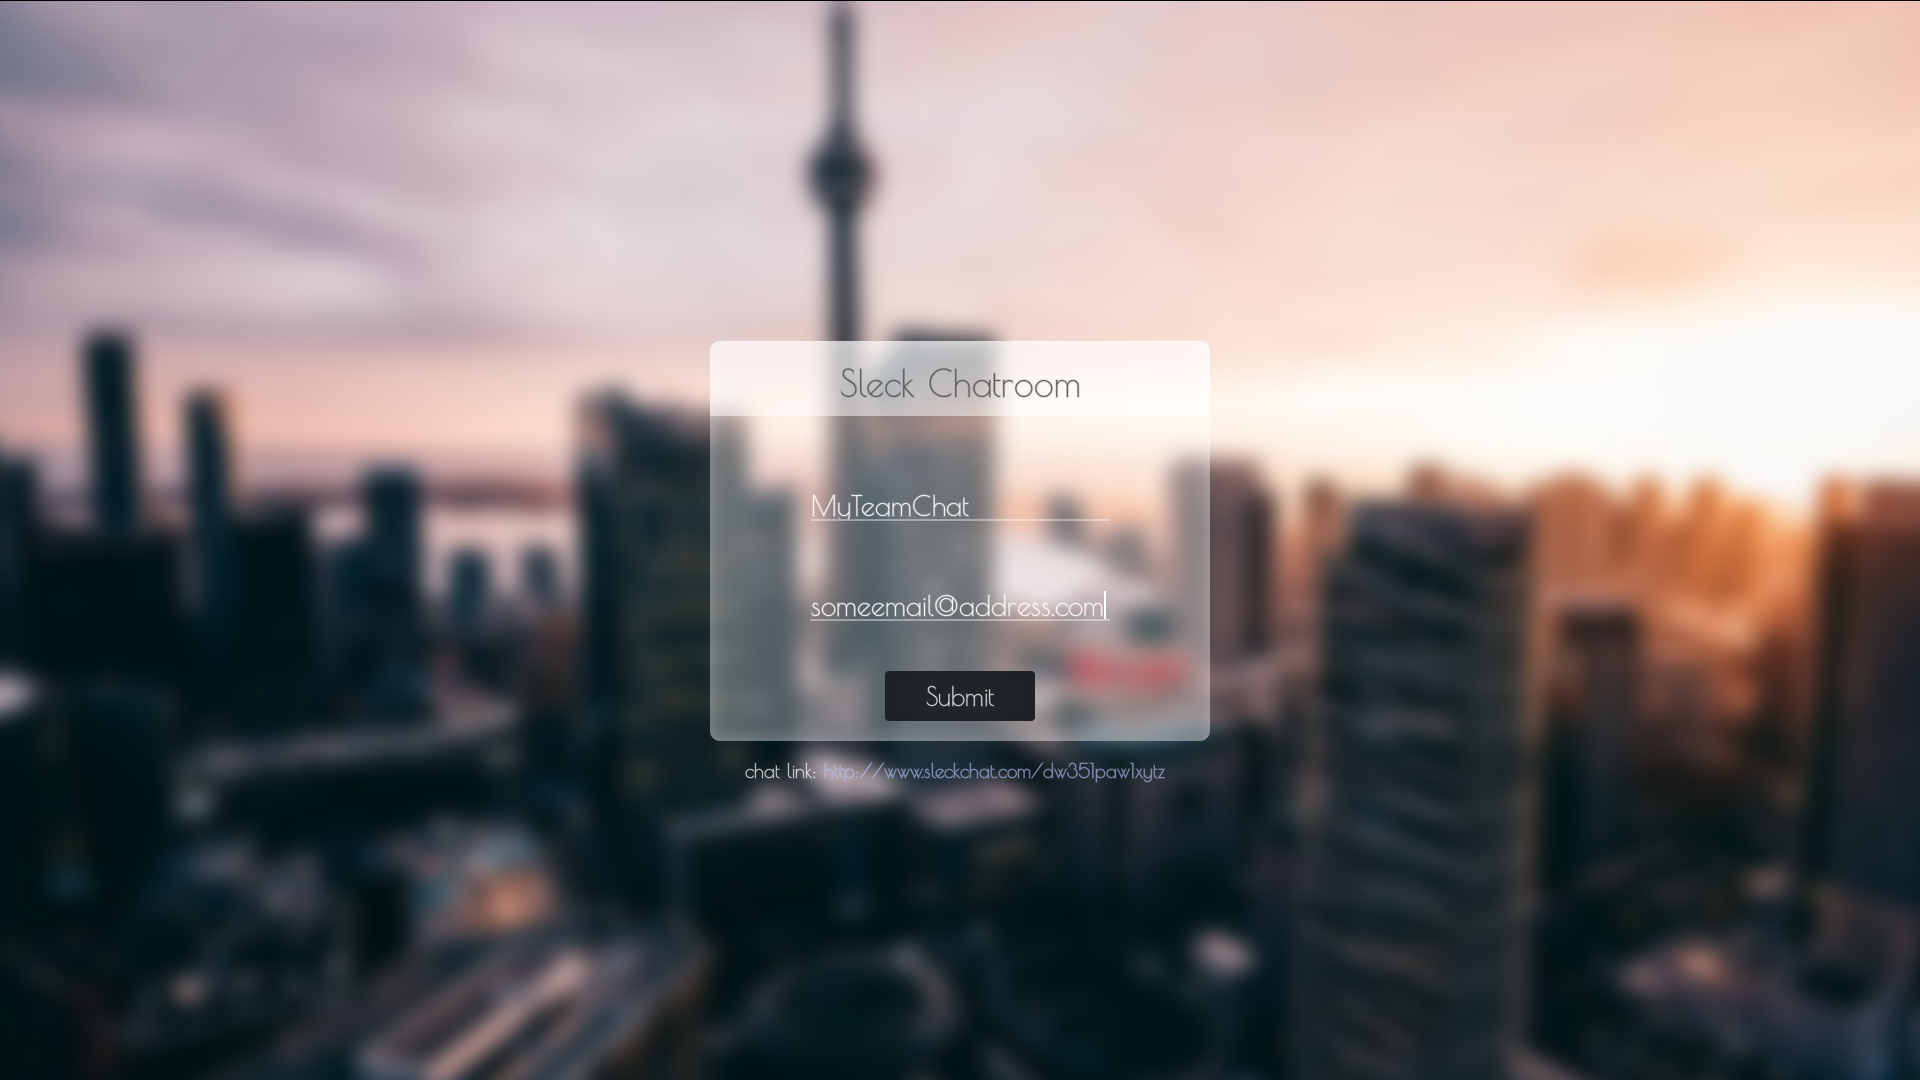
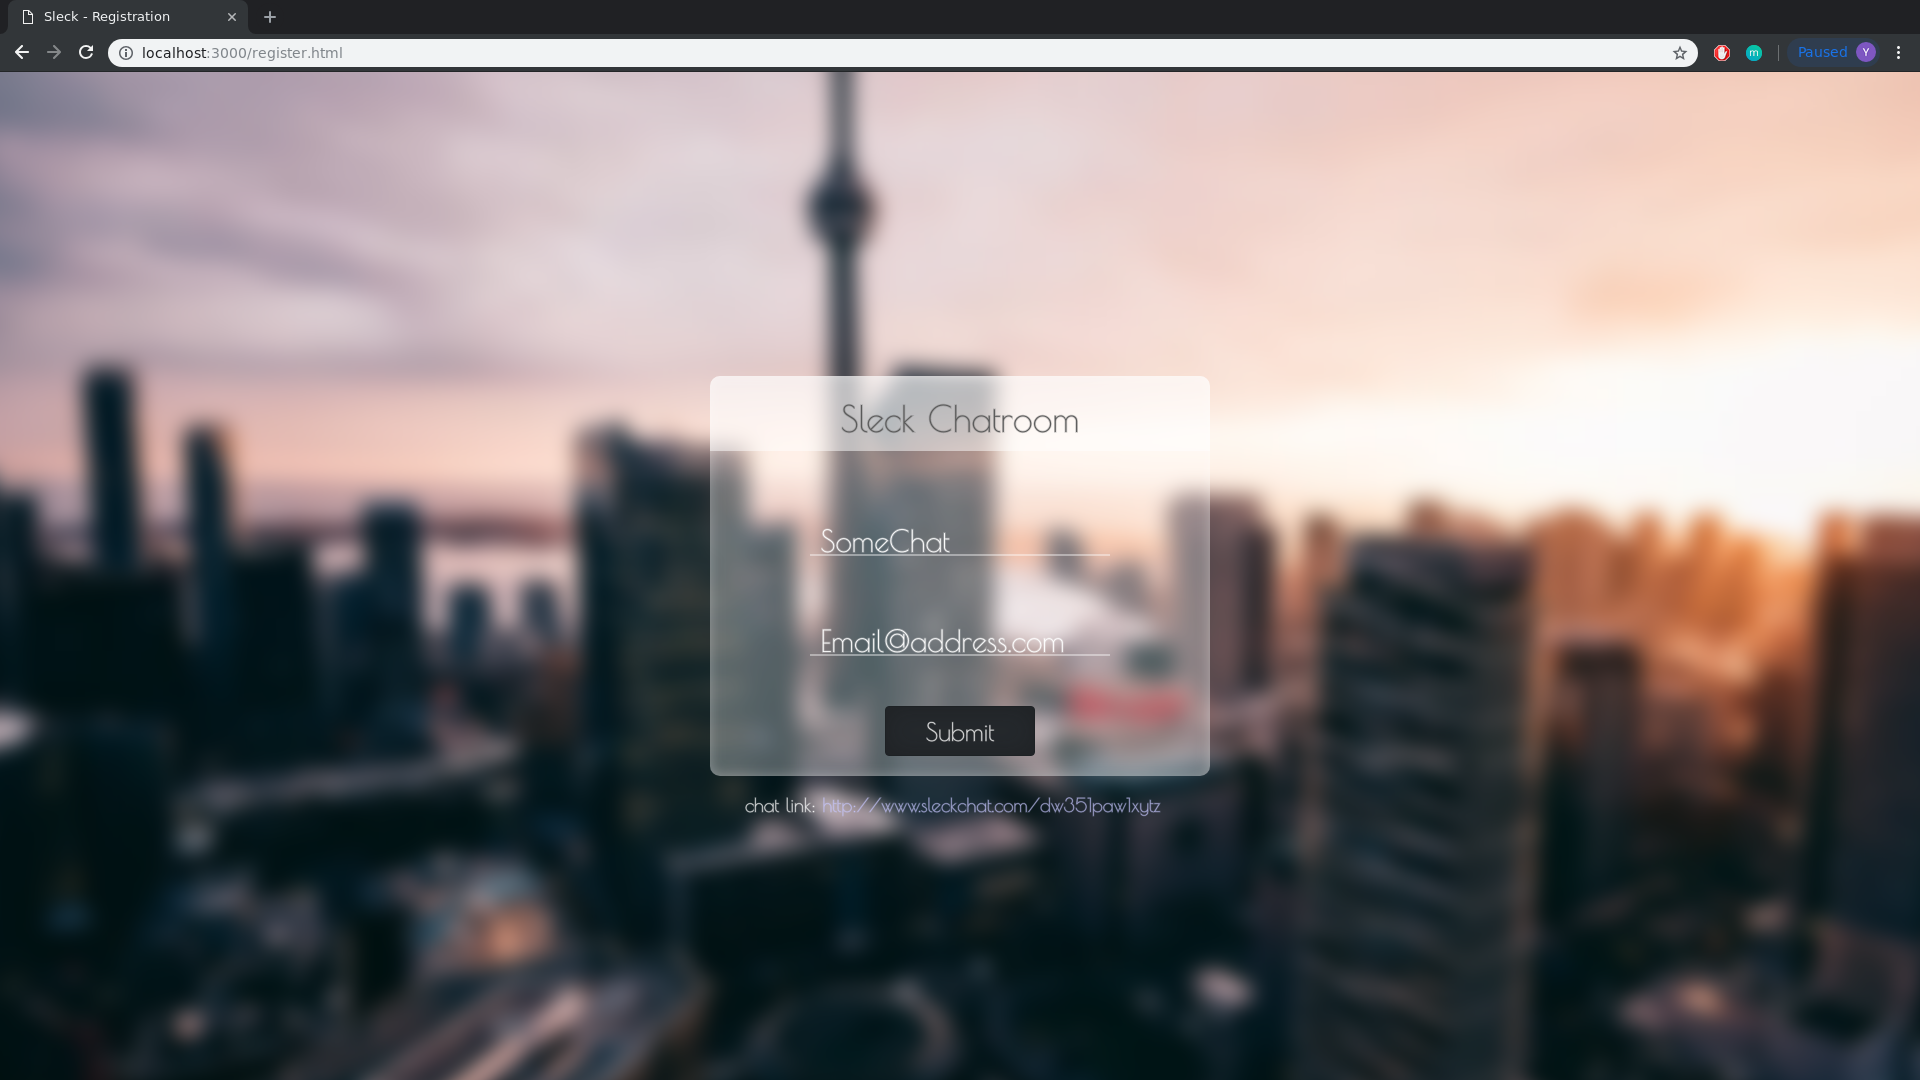
.

diff --git a/app/public/css/register.css b/app/public/css/register.css
@@ -75,7 +75,7 @@ body, html {
   transform: translate(50%, 0);
 
   color: rgba(255,255,255,1);
-  font-size: 28px;
+  font-size: 30px;
   font-family: 'Poiret One', cursive;
   -webkit-text-stroke: 1.5px rgba(255, 255, 255, 0.3); /* GREAT ANTIALIASING HACK */
 }
@@ -95,7 +95,7 @@ body, html {
   transform: translate(50%, 0);
 
   color: rgba(255,255,255,1);
-  font-size: 28px;
+  font-size: 30px;
   font-family: 'Poiret One', cursive;
   -webkit-text-stroke: 1.5px rgba(255, 255, 255, 0.3); /* GREAT ANTIALIASING HACK */
 }
@@ -132,24 +132,24 @@ body, html {
   font-size: 19px;
 
   font-family: 'Poiret One', cursive;
-  -webkit-text-stroke: 1.1px rgba(255, 255, 255, 0.3); /* GREAT ANTIALIASING HACK */
+  -webkit-text-stroke: 1.2px rgba(255, 255, 255, 0.3); /* GREAT ANTIALIASING HACK */
 }
 
 a:link {
-  color: rgba(95,125,255,0.8);
+  color: rgba(200,200,255,0.8);
 }
 
 a:hover {
-  color: rgba(95,115,255,1);
+  color: rgba(200,200,255,1);
   text-decoration: none;
 }
 
 a:active {
-  color: rgba(95,125,255,0.8);
+  color: rgba(200,200,255,0.8);
 }
 
 a:visited {
-  color: rgba(95,125,255,0.8);
+  color: rgba(200,200,255,0.8);
 }
 
 /*
